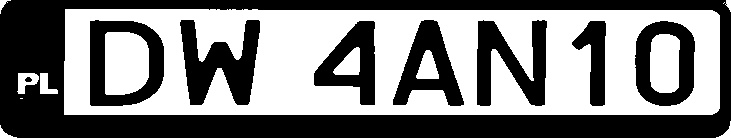
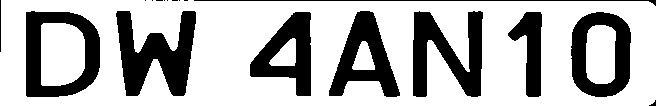
Small update

diff --git a/backend/src/plate_processing/main.py b/backend/src/plate_processing/main.py
@@ -74,7 +74,7 @@ cv2.imwrite(os.path.join(BASE_DIR, 'plate_with_country_cleaned.jpg'), roi_thresh
 
 # Remove country from image
 final_image = remove_country_section(roi_thresh)
-cv2.imwrite(os.path.join(BASE_DIR, 'plate_without_country.jpg'), roi_thresh)
+cv2.imwrite(os.path.join(BASE_DIR, 'plate_without_country.jpg'), final_image)
 
 # Use Tesseract OCR
 custom_config = r'--oem 3 --psm 8'  # PSM 8 = Treat image as a single word/block
